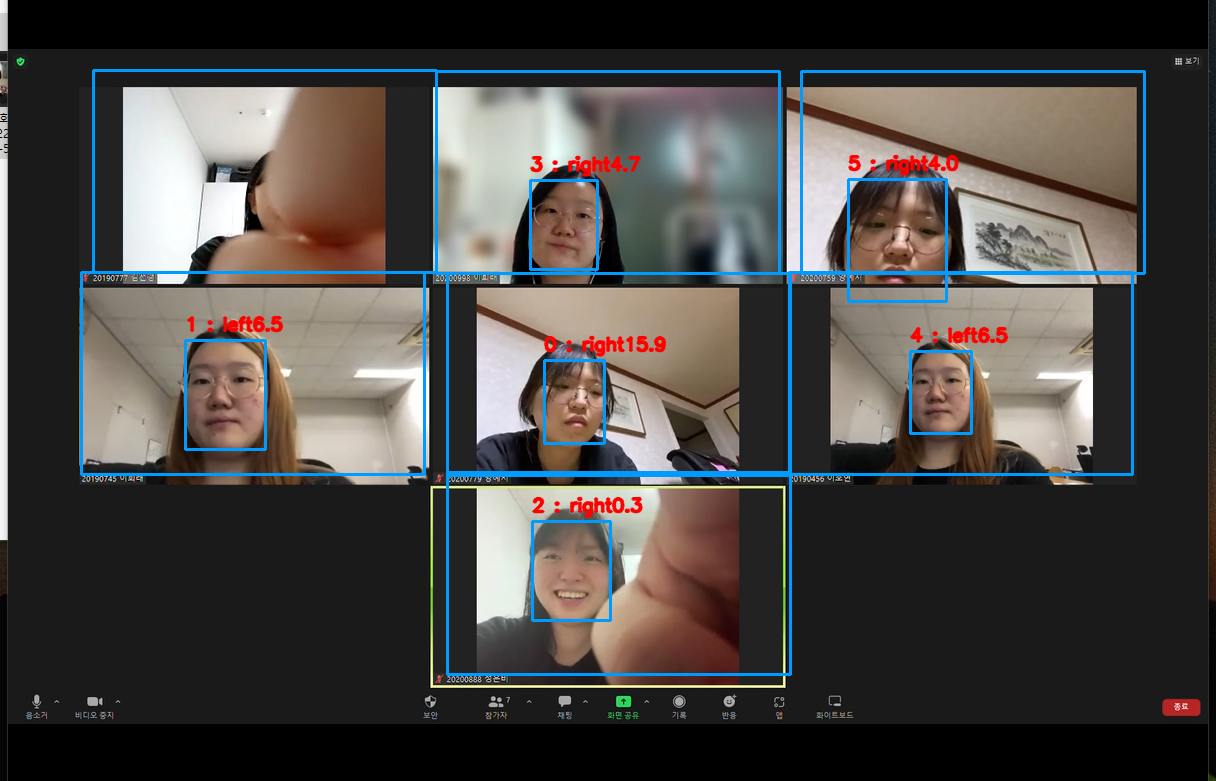
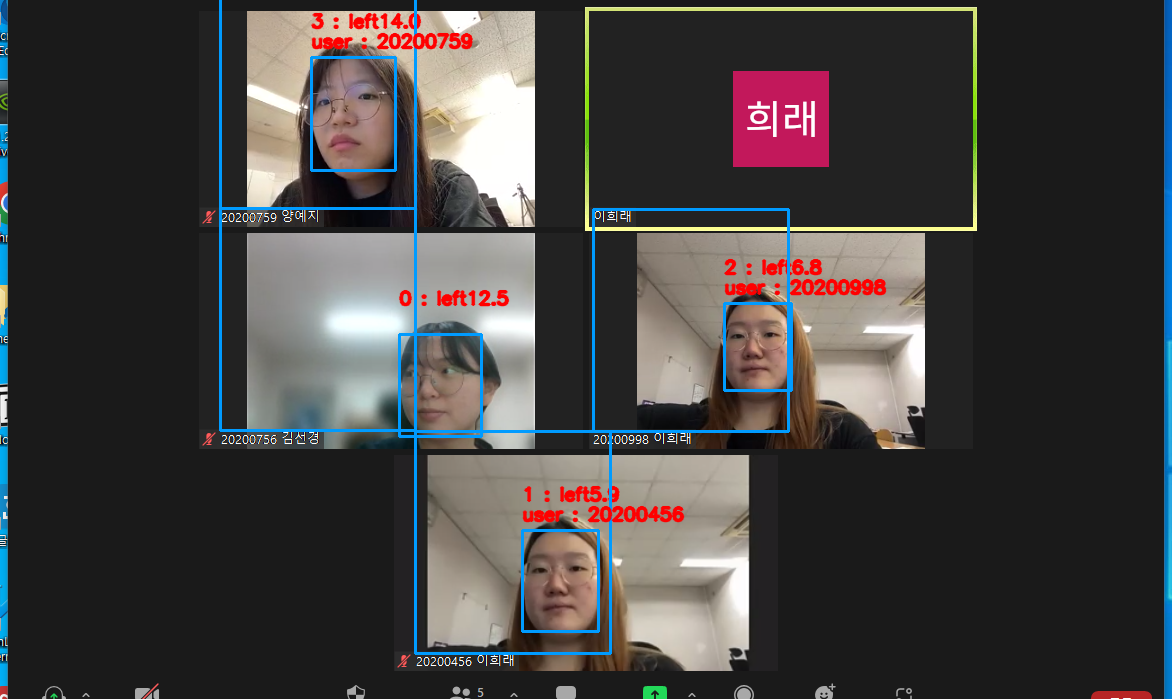
중간 저장(7/18)

diff --git a/mtcnn-master/check_user.py b/mtcnn-master/check_user.py
@@ -1,18 +1,43 @@
 import cv2
 import datetime
 import time
+import numpy as np
 import pandas as pd
 from plus_dlib import find_face
 from calc_coordinate import calc_user
 
 d = datetime.datetime.now()
 #user_box = [{'description': '20178888', 'coordinate': (63, 289, 96, 298), 'box_coordinate': (63, 121, 345, 289)}, {'description': '20200756', 'coordinate': (63, 457, 96, 465), 'box_coordinate': (63, 289, 345, 457)}, {'description': '20200998', 'coordinate': (51, 623, 85, 632), 'box_coordinate': (51, 455, 333, 623)}, {'description': '20181112', 'coordinate': (345, 290, 380, 298), 'box_coordinate': (345, 122, 627, 290)}, {'description': '20200759', 'coordinate': (357, 455, 391, 466), 'box_coordinate': (357, 287, 639, 455)}, {'description': '20210101', 'coordinate': (346, 623, 378, 634), 'box_coordinate': (346, 455, 628, 623)}, {'description': '20190201', 'coordinate': (651, 289, 684, 299), 'box_coordinate': (651, 121, 933, 289)}, {'description': '20200992', 'coordinate': (639, 457, 673, 465), 'box_coordinate': (639, 289, 921, 457)}, {'description': '20213523', 'coordinate': (639, 624, 672, 633), 'box_coordinate': (639, 456, 921, 624)}, {'description': '20190777', 'coordinate': (945, 289, 978, 298), 'box_coordinate': (945, 121, 1227, 289)}, {'description': '20200996', 'coordinate': (933, 457, 967, 465), 'box_coordinate': (933, 289, 1215, 457)}, {'description': '20200745', 'coordinate': (932, 622, 965, 632), 'box_coordinate': (932, 454, 1214, 622)}]
-user_total_check = []
-face_coordinate = []
+#user_total_check = []
+#face_coordinate = []
 check_total_radian = []
+user_list = []
 number = 1
 
+def notice_user_check():
+    user_image = np.full((550, 300*(len(user_total_check)//10 + 1), 3), (255,255,255), np.uint8)
+
+    for i in range(len(user_total_check)):
+        if user_total_check[i]['stay'] == True:
+            cv2.putText(user_image, user_total_check[i]['sNum']+" concentrate", (10+(i//10)*300, ((i%10)+1)*50), cv2.FONT_HERSHEY_SIMPLEX, 0.6, (0, 255, 0), 2, cv2.LINE_AA)
+        else :
+            cv2.putText(user_image, user_total_check[i]['sNum'] + " no concentrate", (10+(i//10)*300, ((i%10)+1)* 50), cv2.FONT_HERSHEY_SIMPLEX, 0.6, (255, 0, 0), 2, cv2.LINE_AA)
+
+    cv2.imwrite(f'./user_check{number}.png', cv2.cvtColor(user_image, cv2.COLOR_RGB2BGR))
+    user_img_check = cv2.imread(f'./user_check{number}.png')
+    #image = cv2.cvtColor(cv2.imread(image_name), cv2.COLOR_BGR2RGB)
+    cv2.imshow('user check', user_img_check)
+    time.sleep(5)
+    cv2.destroyAllWindows()
+
+def find_key(dict, val):
+    for i in range(len(dict)):
+        print("dict[i][description] : ", dict[i]['description'], "val", val)
+        if dict[i]['description'] == val:
+            return i
+
 while(1):
+    user_total_check = []
     try:
         detect_result, image = find_face()
         user_box = calc_user()
@@ -23,31 +48,42 @@ while(1):
         center_x = detect_result[i]['box'][0] + (detect_result[i]['box'][2] / 2)
         center_y = detect_result[i]['box'][1] + (detect_result[i]['box'][3] / 2)
 
-        face_coordinate.append((int(center_x), int(center_y)))
+        detect_result[i]['face_center'] = (int(center_x), int(center_y))
 
         # 얼굴에 사각형 그리기
         cv2.rectangle(image, (detect_result[i]['box'][0], detect_result[i]['box'][1]), (detect_result[i]['box'][0]+detect_result[i]['box'][2], detect_result[i]['box'][1] + detect_result[i]['box'][3]), (0, 155, 255), 2)
-        cv2.putText(image, f"{i} : {detect_result[i]['radianText']}", (detect_result[i]['box'][0], detect_result[i]['box'][1] - 10), cv2.FONT_HERSHEY_SIMPLEX, 0.6, (255, 0, 0), 2, cv2.LINE_AA)
-
+        cv2.putText(image, f"{i} : {detect_result[i]['radianText']}", (detect_result[i]['box'][0], detect_result[i]['box'][1] - 30), cv2.FONT_HERSHEY_SIMPLEX, 0.6, (255, 0, 0), 2, cv2.LINE_AA)
 
     for i in range(len(user_box)):
-        user_check = {'user' : i, "stay" : False, 'sNum' : user_box[i]['description']}
+        user_check = {'user' : i, "stay" : False, 'sNum' : user_box[i]['description'], 'box_coordinate' : None}
         check_radian = {'sNum' : user_box[i]['description']}
+        overLap = 0
         for j in range(len(detect_result)):
-            if (user_box[i]['box_coordinate'][0] <= face_coordinate[j][0] & face_coordinate[j][0] <= user_box[i]['box_coordinate'][2]) \
-                & (user_box[i]['box_coordinate'][1] <= face_coordinate[j][1] & face_coordinate[j][1]<= user_box[i]['box_coordinate'][3]):
-                user_check = {'user' : i, "stay" : True, 'sNum' : user_box[i]['description'], 'radian' : detect_result[j]['radianValue']}
-                if len(check_total_radian) < i+1:
-                    check_radian = {'sNum': user_box[i]['description'], 'radian' : [detect_result[j]['radianValue']], 'score' : 0}
-                    #print(check_radian)
-                else :
+            if ((user_box[i]['box_coordinate'][0] <= detect_result[j]['face_center'][0]) and (detect_result[j]['face_center'][0] <= user_box[i]['box_coordinate'][2])) \
+                and ((user_box[i]['box_coordinate'][1] <= detect_result[j]['face_center'][1]) and (detect_result[j]['face_center'][1]<= user_box[i]['box_coordinate'][3])):
+
+                if overLap == 0:
+                    user_check = {'user': i, "stay": True, 'sNum': user_box[i]['description'], 'exist': True,
+                                  'box_coordinate': detect_result[j]['box']}
+                    overLap += 1
+                else:
+                    key = find_key(user_box, user_box[i]['description'])
+                    if (detect_result[key]['face_size'] >= detect_result[i]['face_size']):
+                        print("pass")
+                    else:
+                        user_check = {'user': key, "stay": True, 'sNum': user_box[key]['description'], 'exist': True,
+                                      'box_coordinate': detect_result[key]['box']}
+                #user_check = {'user' : i, "stay" : True, 'sNum' : user_box[i]['description'], 'radian' : detect_result[j]['radianValue']}
+
+                if user_box[i]['description'] in user_list:
                     for z in range(len(check_total_radian)):
-                        if check_total_radian[z]['sNum'] == user_box[i]['description']:
+                        if user_box[i]['description'] == check_total_radian[z]['sNum']:
+                            print(check_total_radian[z]['sNum'], user_box[i]['description'])
                             try:
                                 check_total_radian[z]['radian'].append(detect_result[j]['radianValue'])
                                 #print(check_total_radian[z])
                                 # score : 1분에 한번씩 각도를 측정하면서 +- 5도 안이면 1점 아니면 0점이라고 가정 누적해서 스코어링
-                                if (check_total_radian[z]['radian'][0] - 5 < detect_result[j]['radianValue']) & (check_total_radian[z]['radian'][0]+5 > detect_result[j]['radianValue']):
+                                if (check_total_radian[z]['radian'][0] - 5 < detect_result[j]['radianValue']) and (check_total_radian[z]['radian'][0]+5 > detect_result[j]['radianValue']):
                                     check_total_radian[z]['score'] = check_total_radian[z]['score'] + 1
                                 else:
                                     check_total_radian[z]['score'] = check_total_radian[z]['score'] + 0
@@ -55,28 +91,48 @@ while(1):
                             except:
                                 check_total_radian[z]['radian'] = [detect_result[j]['radianValue']]
                                 check_total_radian[z]['score'] = 0
+                else:
+                    check_radian = {'sNum': user_box[i]['description'], 'radian': [detect_result[j]['radianValue']], 'score': 0}
 
                 break
 
         #print(user_box[i]['box_coordinate'][0])
         cv2.rectangle(image, (user_box[i]['box_coordinate'][0], user_box[i]['box_coordinate'][1]), (user_box[i]['box_coordinate'][2], user_box[i]['box_coordinate'][3]), (0, 155, 255), 2)
         user_total_check.append(user_check)
-        if len(check_total_radian) < i+1:
+        if user_box[i]['description'] not in user_list:
             check_total_radian.append(check_radian)
+            user_list.append(user_box[i]['description'])
+
+    print('========================================')
+    print(user_total_check)
+    print('========================================')
+    print()
+    for i in range(len(user_total_check)):
+        if user_total_check[i]['box_coordinate'] != None:
+            cv2.rectangle(image, (user_total_check[i]['box_coordinate'][0], user_total_check[i]['box_coordinate'][1]), \
+                          (user_total_check[i]['box_coordinate'][0] + user_total_check[i]['box_coordinate'][2],
+                           user_total_check[i]['box_coordinate'][1] + user_total_check[i]['box_coordinate'][3]),
+                          (0, 155, 255), 2)
+            cv2.putText(image, f"user : {user_total_check[i]['sNum']}",
+                        (user_total_check[i]['box_coordinate'][0], user_total_check[i]['box_coordinate'][1] - 10),
+                        cv2.FONT_HERSHEY_SIMPLEX, 0.6, (255, 0, 0), 2, cv2.LINE_AA)
 
     print()
     print('========================================')
+    print(f'user_box{number} : ', user_box)
+    print(len(user_box))
     print(f'user_result{number} : ', user_total_check)
-    print()
+    print(len(user_total_check))
     print(f'derect_result{number} : ', detect_result)
-    print()
+    print(len(detect_result))
     print(f'{number}:', check_total_radian)
     print(len(check_total_radian))
     print('========================================')
     cv2.imwrite(f'./result{number}.png', cv2.cvtColor(image, cv2.COLOR_RGB2BGR))
+    notice_user_check()
     number = number+1
 
-    time.sleep(30)
+    time.sleep(10)
     '''
     if len(check_total_radian[0]['sNum']) == 3:
         break

diff --git a/mtcnn-master/plus_dlib.py b/mtcnn-master/plus_dlib.py
@@ -32,8 +32,8 @@ print(datetime.datetime.now())
 
 def find_face():
     try:
-        #win = gw.getWindowsWithTitle('Zoom 회의')
-        win = gw.getWindowsWithTitle('사진')[0]
+        win = gw.getWindowsWithTitle('Zoom 회의')[0]
+        #win = gw.getWindowsWithTitle('영화')[0]
         #win.activate()
         #win.maximize()
         '''
@@ -46,7 +46,7 @@ def find_face():
         return 0
 
     #time.sleep(1)           #maximize 되는 시간 기다리기
-    ImageGrab.grab = partial(ImageGrab.grab, bbox=(win.left, win.top+80, win.right, win.bottom-80), all_screens=True)
+    ImageGrab.grab = partial(ImageGrab.grab, bbox=(win.left, win.top+80, win.right, win.bottom-40), all_screens=True)
     img = ImageGrab.grab()
     img.save(image_name)
 
@@ -140,7 +140,7 @@ def find_face():
         #radianValue_list.append(round(radian, 2))
         #cv2.putText(image, textShow, (dlib_rect.left(), dlib_rect.top() - 10), fontType, fontSize, (255, 0, 0), font_width, cv2.LINE_AA)
 
-        change_result = {'box': bounding_box, 'radianText': textShow, "radianValue": round(radian, 2)}
+        change_result = {'box': bounding_box, 'radianText': textShow, "radianValue": round(radian, 2), "face_size" : bounding_box[2]*bounding_box[3]}
         total_result.append(change_result)
     #cv2.imshow('img', image)
     #cv2.imwrite(resultImg_name, cv2.cvtColor(image, cv2.COLOR_RGB2BGR))
